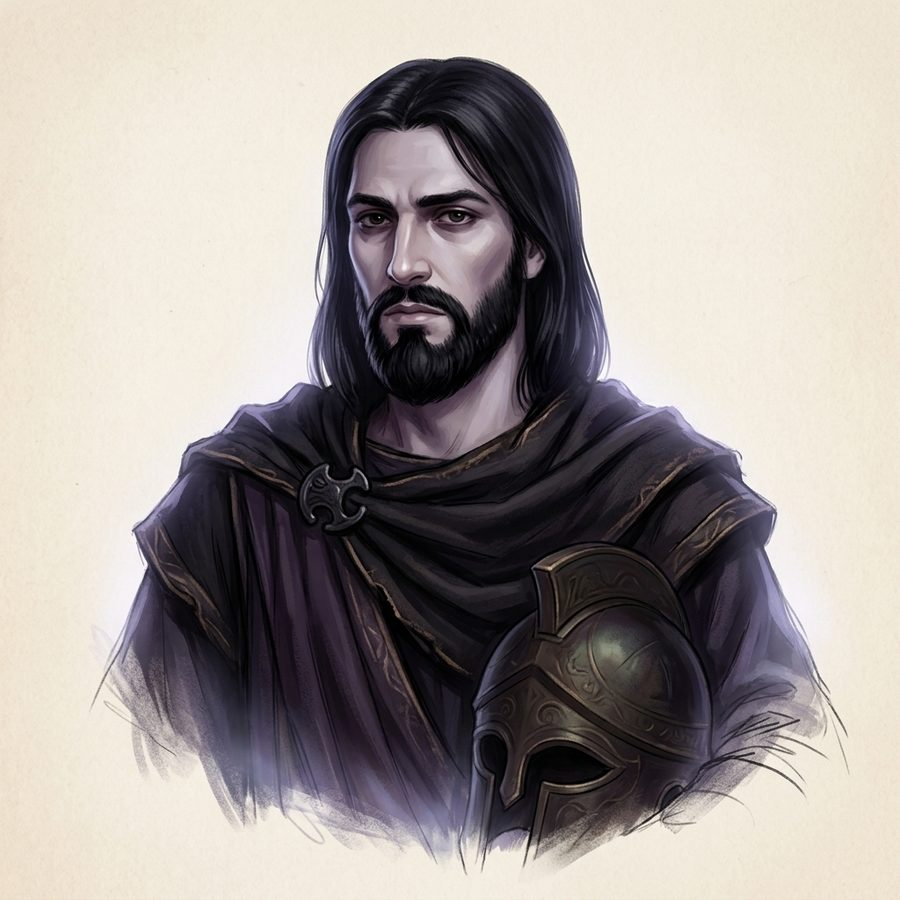
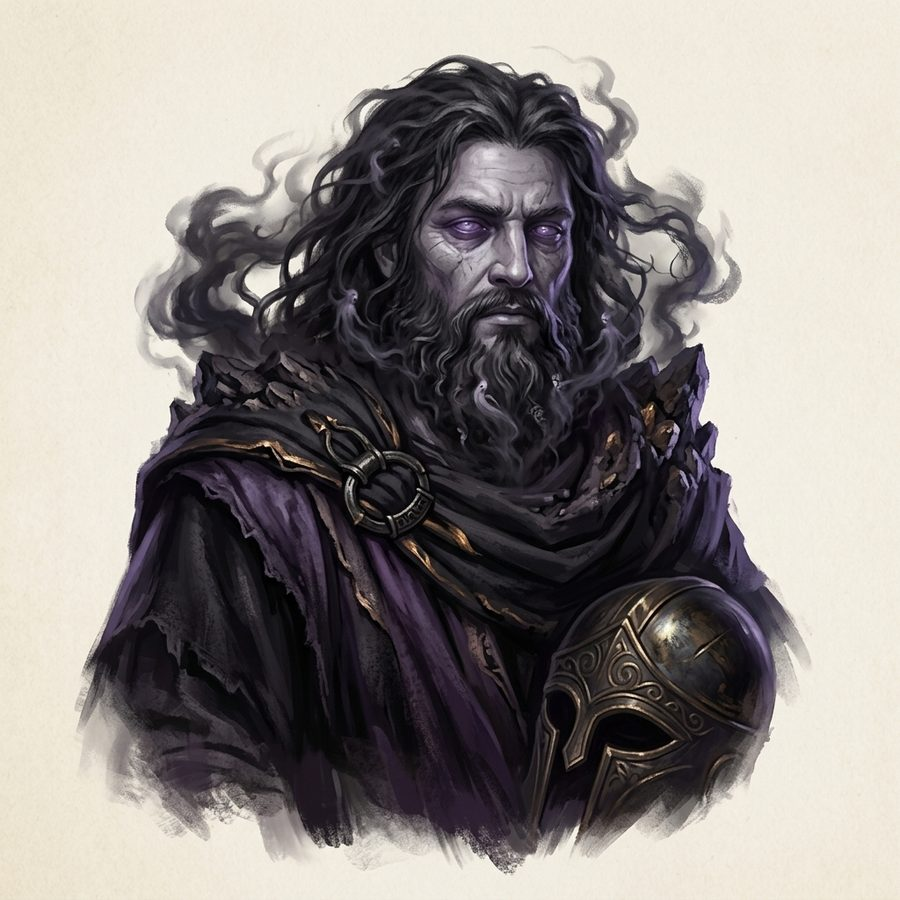
Goden en titanen in elementaire stijl (proef B): nieuwe portretten en openingsbeeld

diff --git a/tools/proef.py b/tools/proef.py
@@ -1,0 +1,61 @@
+"""Proefplaatjes: dezelfde schilderstijl, drie richtingen voor hoe bovennatuurlijk de goden eruitzien. Uitvoer in proef/."""
+import sys
+from pathlib import Path
+
+sys.path.insert(0, str(Path(__file__).parent))
+import mythen  # noqa: E402
+
+UIT = mythen.ROOT / "proef"
+
+RICHTINGEN = {
+    "A-kolossaal": ("Epic, colossal and mythic: the figure is a towering, larger-than-life being with an imposing, "
+                    "monumental build, glowing eyes and subtle divine energy, ornate ancient armor and relics, a sense of "
+                    "immense scale (tiny clouds, birds or ruins near the figure to show how gigantic it is), dramatic "
+                    "rim light. Clearly a god or titan, not a normal human."),
+    "B-elementair": ("Elemental: the body itself is partly made of the god's domain, as if nature and the god are one: "
+                     "materials like stone, water, seaweed, coral, roots, moss, flame or starlight grow out of and replace "
+                     "parts of skin, hair and beard, with mythic ornaments. Clearly a god or titan, not a normal human."),
+    "C-gestileerd": ("Stylized and characterful like classic hand-drawn animated mythology films: bold, exaggerated "
+                     "heroic proportions and silhouettes, expressive and slightly caricatured faces, magical effects as "
+                     "part of the character (flame hair, swirling water, glowing patterns), still painted with soft visible "
+                     "brushwork. Clearly a god or titan, not a normal human."),
+    "D-strijdgod": ("Heroic god-champion like the splash art of a mythological battle arena game: a powerful, dynamic "
+                    "pose ready for battle, ornate and oversized fantasy armor and weapons with gold, gems and glowing "
+                    "runes, a strong divine aura of the god's element swirling around the body (water, earth, fire, light), "
+                    "vivid saturated colors and high contrast, idealized superhuman physique. Clearly a god or titan, not "
+                    "a normal human."),
+}
+
+FIGUREN = {
+    "poseidon": "Poseidon, god of the sea: a beard and hair of flowing seaweed and sea foam, patches of shimmering fish "
+                "scales on his arms and shoulders, sea-green glowing eyes, a crown of coral, holding a bronze trident.",
+    "kronos": "Kronos, king of the Titans: a gigantic ancient titan, skin like weathered bronze-grey stone with cracks of "
+              "golden light, a long iron-grey beard, a heavy golden crown, holding an enormous harvest sickle. "
+              "Brooding and paranoid.",
+    "gaia": "Gaia, primordial goddess of the Earth: a gigantic titaness made of earth, rock and living plants, hair of "
+            "grass, vines and flowers, moss and roots across her body, eyes glowing warm green, motherly but immense "
+            "and ancient.",
+}
+
+if __name__ == "__main__":
+    UIT.mkdir(exist_ok=True)
+    vb = mythen.stijlvoorbeelden("portret")
+    for rid, richting in RICHTINGEN.items():
+        for fid, figuur in FIGUREN.items():
+            pad = UIT / f"{rid}-{fid}.jpg"
+            if pad.is_file():
+                continue
+            print(f"  {rid} {fid} ...", flush=True)
+            prompt = "\n".join([
+                f"A character portrait of {figuur}",
+                f"Character design direction: {richting}",
+                "Composition: head, shoulders and upper body, the face turned slightly toward the viewer, the painted "
+                "figure fading softly into a plain light parchment background, like the character art in the style "
+                "reference images.",
+                f"The {len(vb)} attached images are style references: use them only for the painting style, the colors "
+                "and the light, and never copy what is in them.",
+                f"Style: {mythen.STIJL}"])
+            try:
+                mythen.bewaar(mythen.teken(prompt, vb, "1:1"), pad, 900)
+            except Exception as fout:  # één mislukt plaatje mag de rest niet tegenhouden
+                print(f"  mislukt: {fout}", flush=True)

diff --git a/tools/mythen.py b/tools/mythen.py
@@ -45,6 +45,13 @@ STIJL = ("Painted fantasy illustration in the style of the Dungeons & Dragons St
          "armor and objects full of detail that fit the ancient culture of the myth. Heroic, mythic and family-friendly, "
          "not grimdark, no gore. Not photorealistic, not anime, not a 3D render. No text, no letters, no frame, no watermark.")
 
+# Gekozen ontwerp (proef B, 25 nov 2026): goden en titanen zijn deels gemaakt van hun eigen element.
+RICHTING = ("Elemental character design: the body itself is partly made of the god's domain, as if nature and the god are "
+            "one: materials like stone, earth, water, seaweed, coral, roots, moss, storm clouds, lightning, flame, smoke or "
+            "starlight grow out of and replace parts of skin, hair and beard, with mythic ornaments and softly glowing eyes. "
+            "Gods and titans are clearly supernatural beings, not normal humans; titans are colossal. Mortal humans look "
+            "normal. No letters, runes or symbols that look like writing.")
+
 # Stijlvoorbeelden: lokaal de plaatjes uit het D&D-boek (staan niet in de publieke repo). Zijn die er niet (zoals in de
 # cloud), dan gaan de eerste portretten uit deze verzameling zelf mee als stijlanker.
 STIJL_PORTRET = ("mallyn.webp", "kalista.webp")
@@ -157,6 +164,7 @@ def bewaar(data: bytes, pad: Path, breedte: int):
 
 def portret_prompt(figuur: dict, aantal: int) -> str:
     delen = [f"A character portrait of {figuur['prompt']}",
+             f"Character design: {RICHTING}",
              "Composition: a head-and-shoulders vignette, the face in the upper middle and turned slightly toward the "
              "viewer, the painted figure fading softly into a plain light parchment background, like the character art in "
              "the style reference images."]
@@ -170,7 +178,8 @@ def portret_prompt(figuur: dict, aantal: int) -> str:
 def scene_prompt(verhaal: dict, aantal: int) -> str:
     delen = [f"A scene from {verhaal['mythologie']} mythology: {verhaal['scene']}",
              "Composition: a wide, cinematic scene with a clear focal point, showing both the place and the characters, "
-             "with depth and soft atmospheric haze."]
+             "with depth and soft atmospheric haze.",
+             f"Character design: {RICHTING}"]
     if aantal:
         delen.append(f"The {aantal} attached images are style references: use them only for the painting style, the "
                      "colors and the light, and never copy what is in them.")
